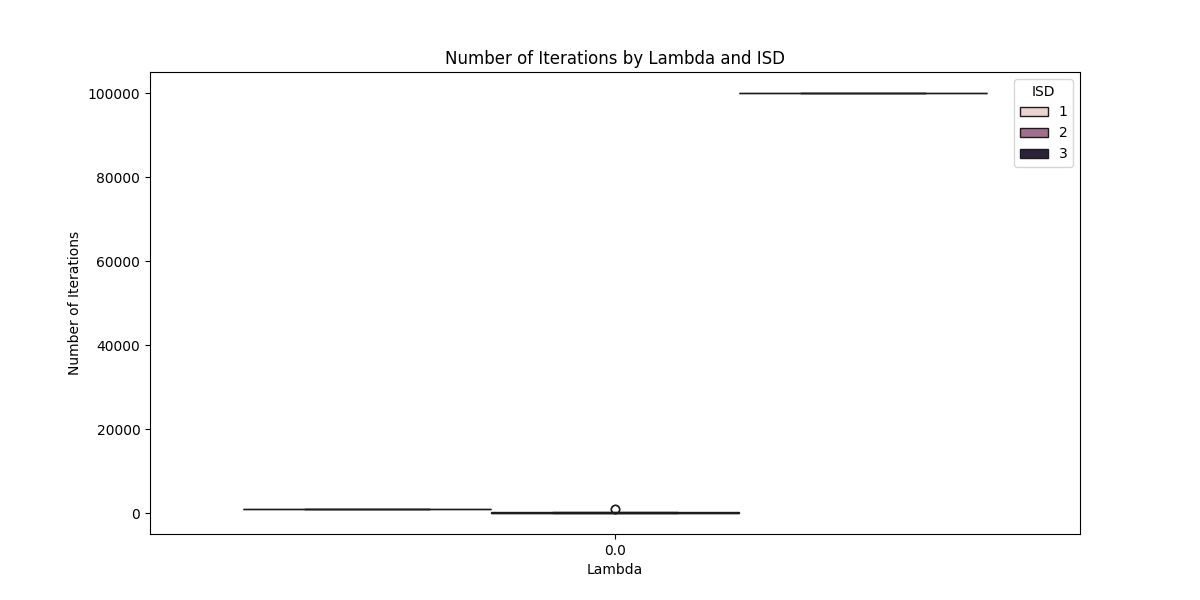
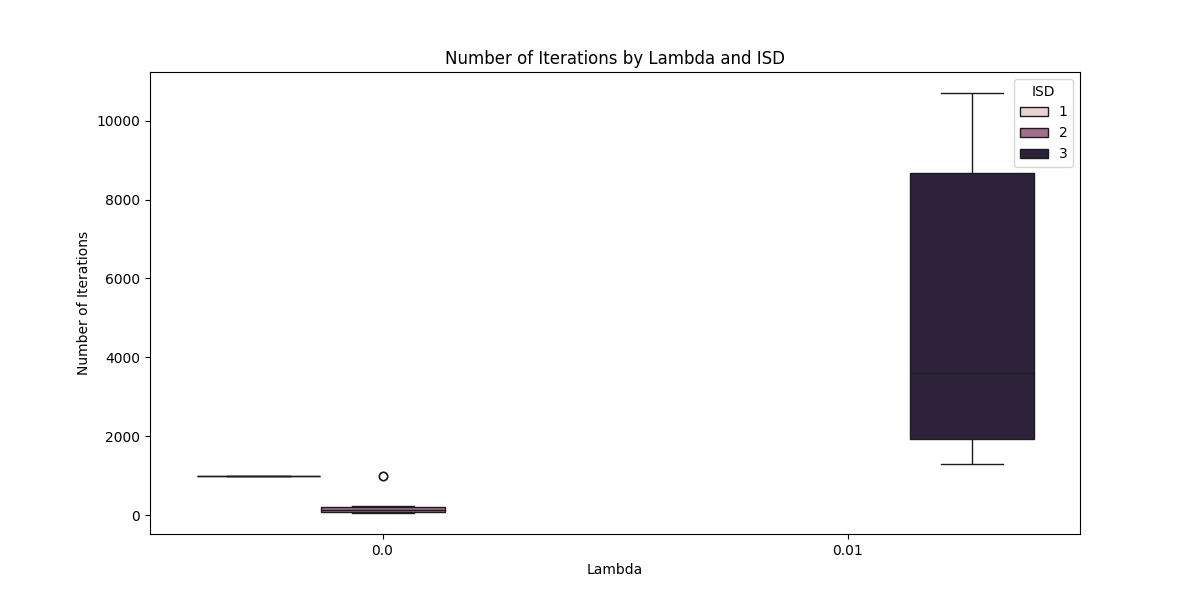
fotos noves

diff --git a/data_analyzer.py b/data_analyzer.py
@@ -3,17 +3,34 @@ import seaborn as sns
 import matplotlib.pyplot as plt
 
 # Load the CSV data
-data = pd.read_csv('uo_nn_batch_48043775-38877082-565544.csv', delimiter=';', skipinitialspace=True)
+data = pd.read_csv('uo_nn_batch_48043775-38877082-565544_report2.csv', delimiter=';', skipinitialspace=True)
 
 #delete the last column
 data = data.iloc[:, :-1]
 
 
 
-print(data)
+# print(data)
 
 # # Rename columns for easier access
 data.columns = ['num_target', 'lambda', 'isd', 'niter', 'tex', 'tr_acc', 'te_acc', 'L*']
+
+
+
+
+
+# join two csv with the same structure
+data2 = pd.read_csv('uo_nn_batch_48043775-38877082-565544.csv', delimiter=';', skipinitialspace=True)
+data2 = data2.iloc[:, :-1]
+data2.columns = ['num_target', 'lambda', 'isd', 'niter', 'tex', 'tr_acc', 'te_acc', 'L*']
+
+data = pd.concat([data, data2])
+
+print(data)
+
+#delete all the rows that lambda = 0.00 and isd = 3
+data = data[(data['lambda'] != 0.00) | (data['isd'] != 3)]
+print(data)
 
 
 

diff --git a/uo_nn_batch.m b/uo_nn_batch.m
@@ -17,8 +17,8 @@ csvfile = strcat('uo_nn_batch_',num2str(tr_seed),'-',num2str(te_seed),'-',num2st
 fileID = fopen(csvfile ,'w');
 t1=clock;
 for num_target = [1:10]
-    for la = [0.0]
-        for isd = [1,2,3]
+    for la = [0.01]
+        for isd = [3]
 % for num_target = [1,2]
 %     for la = [0.0,0.01]
 %         for isd = [1,2,3]
